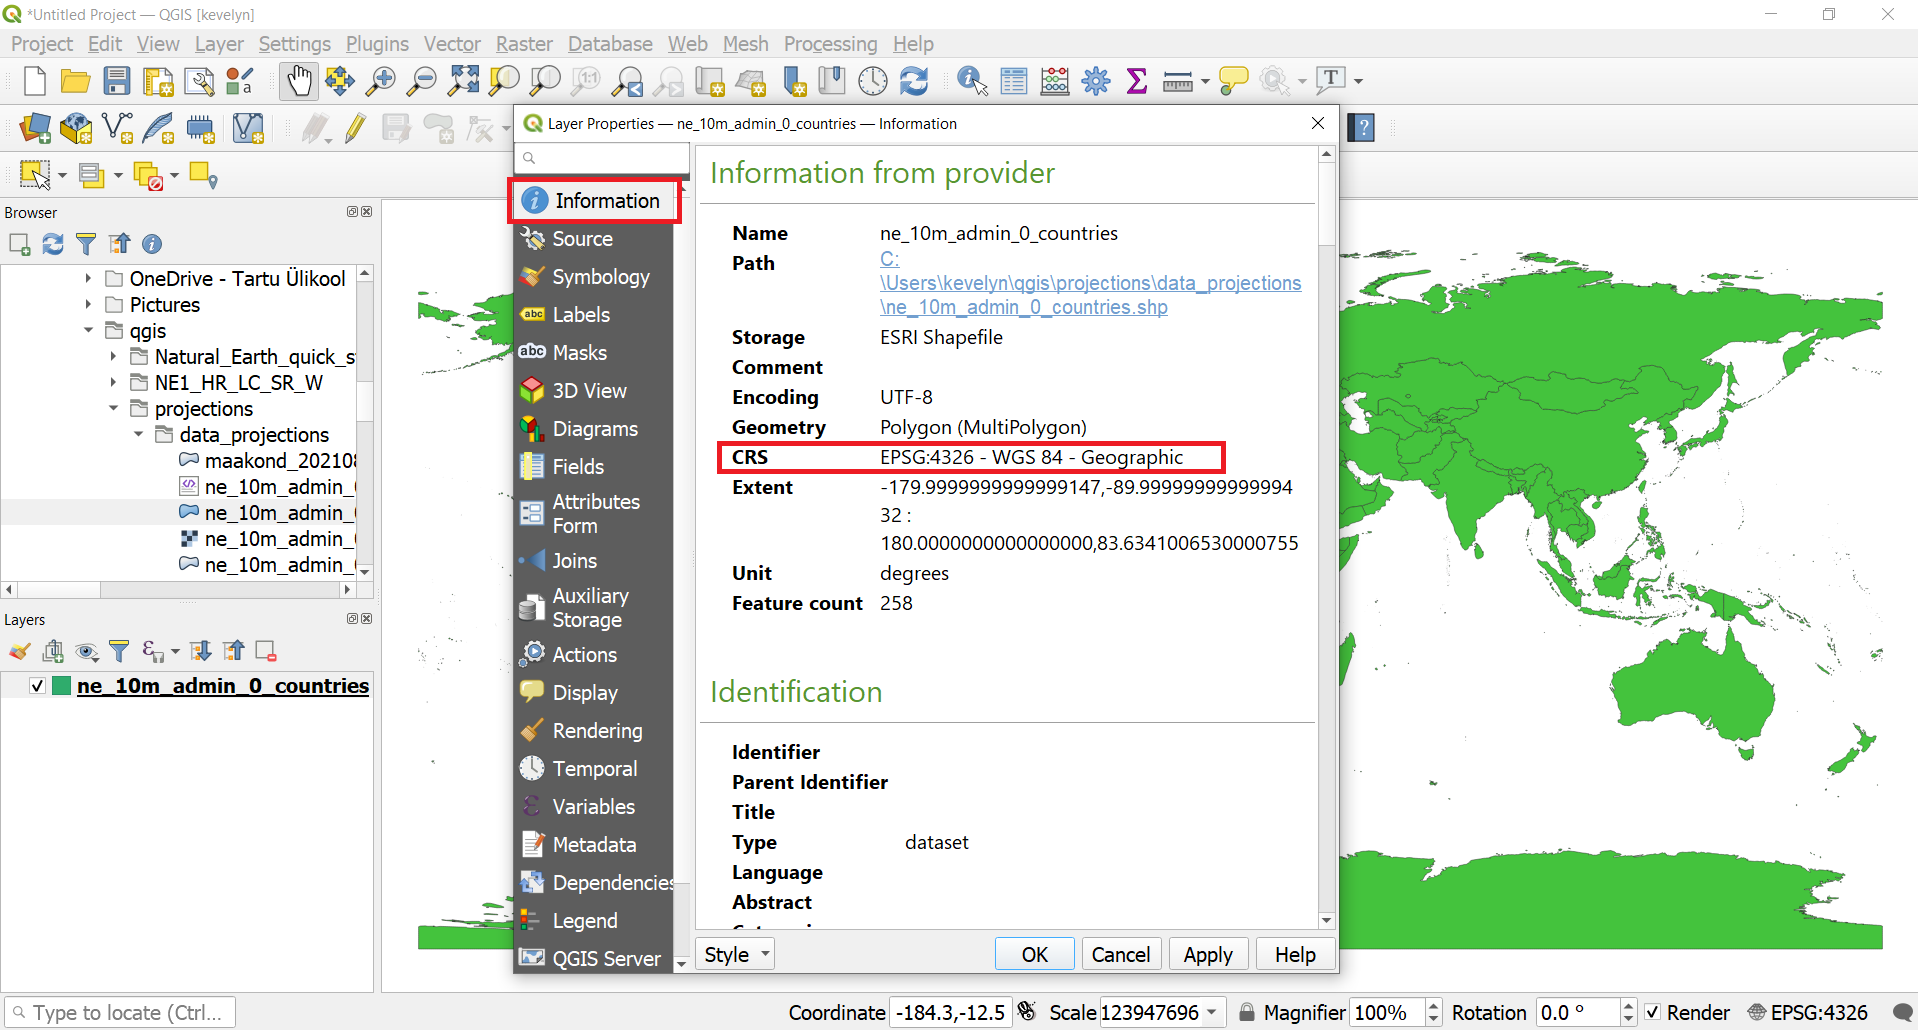
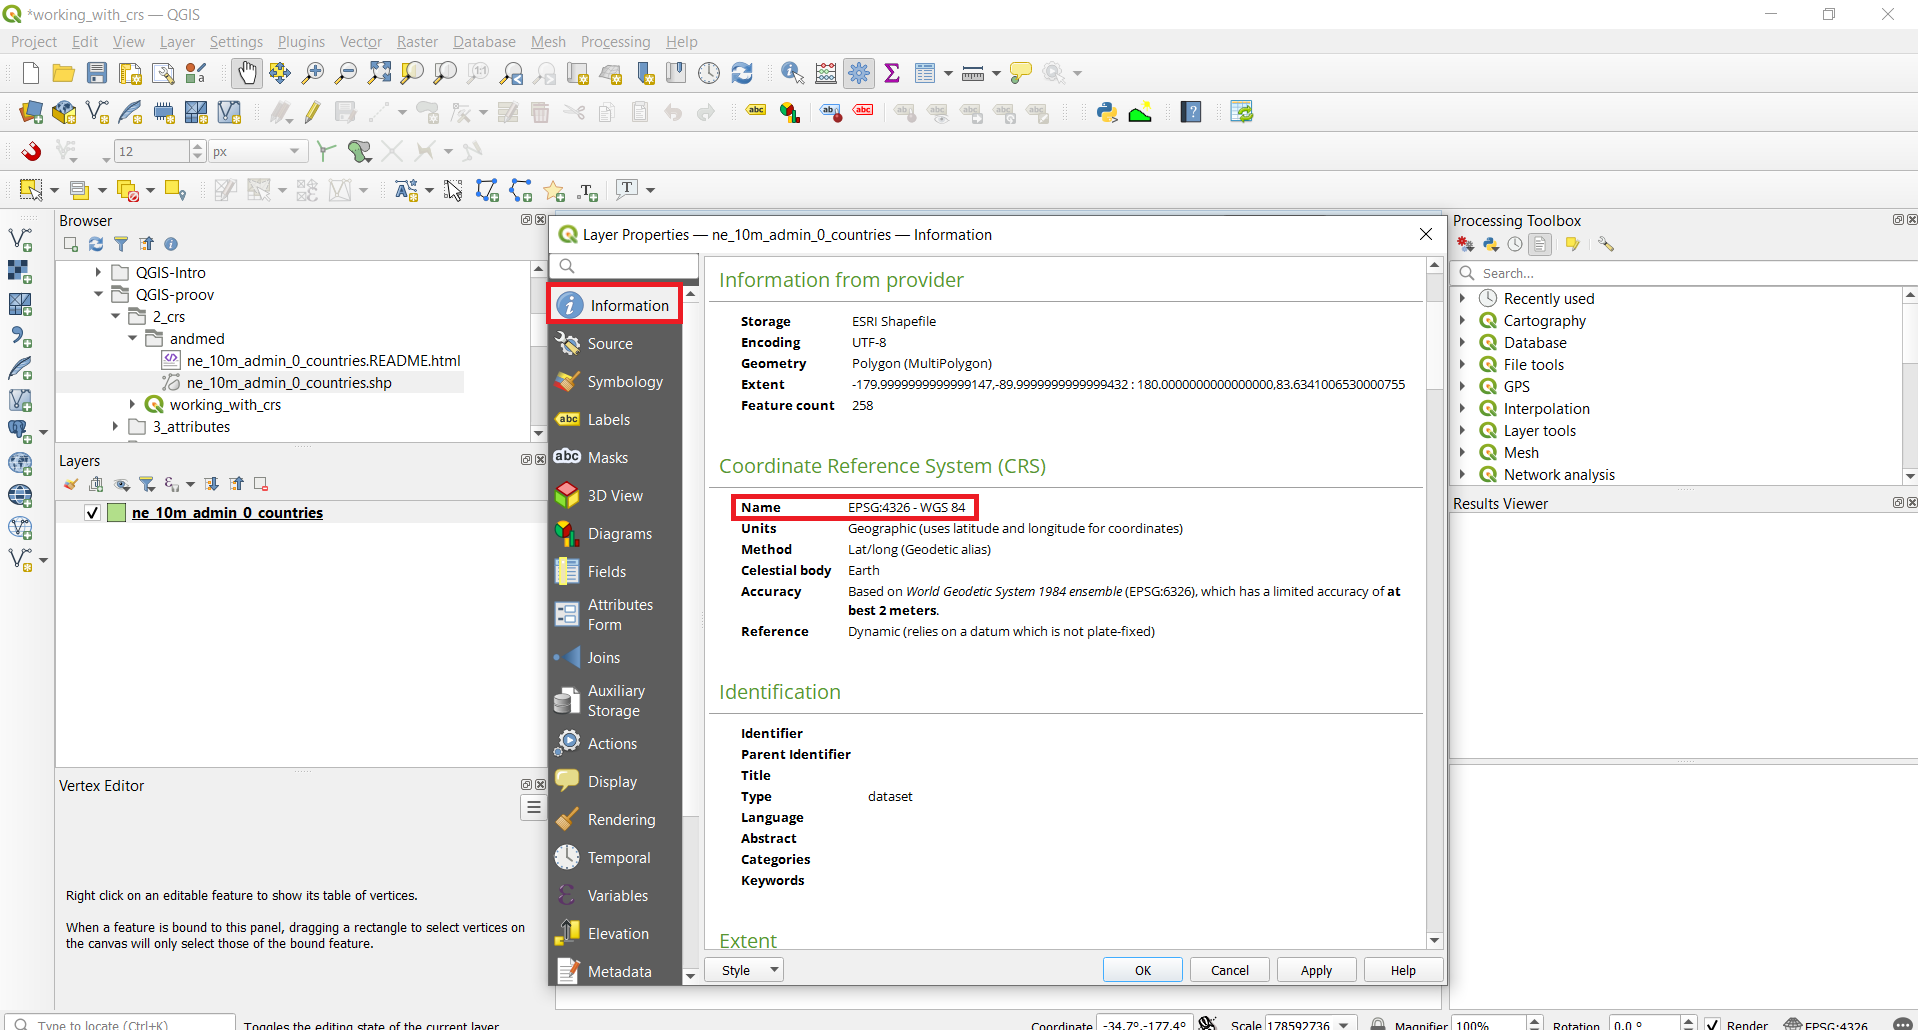
working with crs parandused

diff --git a/_posts/qgis/2022-08-10-working-with-CRS.md b/_posts/qgis/2022-08-10-working-with-CRS.md
@@ -11,7 +11,7 @@ Coordinate Reference System (CRS) often cause a lot of frustration when working 
 + Geographic Coordinate Systems (GCS)
 + Projected Coordinate Systems (PCS)
 
-It is important to recognise and make the difference between them. The projected coordinate systems always include also information about the projection. It is important to make an appropriate choice of CRS for projects. Choosing an inappropriate CRS can cause your maps to look distorted, and poorly reflect the real-world relative sizes and positions of features but it can also cause wrong spatial analysis results (wrong area or distance estimations). Usually, while working in smaller geographic areas, there will be a number of standard CRSs used within a particular country or administrative area. It’s important to research which CRSs are appropriate or standard choices for the area you are mapping, and ensure that your QGIS project follows these standards. You can read more about Coordinate Reference Systems from [<span style="color:#0564A0">QGIS Documentation</span>](https://docs.qgis.org/3.16/en/docs/gentle_gis_introduction/coordinate_reference_systems.html#coordinate-reference-systems)
+It is important to recognise and make the difference between them. The projected coordinate systems always also include information about the projection. It is important to make an appropriate choice of CRS for projects. Choosing an inappropriate CRS can cause your maps to look distorted, and poorly reflect the real-world relative sizes and positions of features but it can also cause wrong spatial analysis results (wrong area or distance estimations). Usually, while working in smaller geographic areas, there will be a number of standard CRSs used within a particular country or administrative area. It’s important to research which CRSs are appropriate or standard choices for the area you are mapping, and ensure that your QGIS project follows these standards. You can read more about Coordinate Reference Systems from [<span style="color:#0564A0">QGIS Documentation</span>](https://docs.qgis.org/3.28/en/docs/gentle_gis_introduction/coordinate_reference_systems.html#coordinate-reference-systems)
 
 In this tutorial, we will explore how CRSs work in QGIS and learn about tools available for vector and raster data layers.
 The tutorial is mainly based on Ujaval Gandhi's [QGIS Tutorials and Tips](https://www.qgistutorials.com/en/docs/introduction.html).
@@ -44,11 +44,11 @@ For convenience, you may directly download files required only for this tutorial
 ![image of add vector](../../images/3_add vector file.png)
 2. At the bottom of QGIS window, you will notice the label Coordinate. As you move your cursor over the map, it will show you the X and Y coordinates at that location. Currently it is presenting geographic coordinates because the data layer CRS is geographic, more precisely WGS84 (EPSG:4326), which you can see at the bottom-right corner. This is also the current Project CRS because QGIS assigns the empty project CRS of the first layer you add to the project.
 ![image of CRS info](../../images/3_coord and CRS info.png)
-3. To determine a layer’s projection, we can look into the metadata. Right click on <span style="font-family:Consolas; color:#AF1B03">ne_10m_admin_0_countries.shp</span> layer and select Properties. From there switch to the Information tab in the Layer Properties dialog. Under provider information you will find CRS. As you can see, there is also a lot of other information under metadata, such as extent of the layer, units etc.
+3. To determine a layer’s projection, we can look into the metadata. Right click on <span style="font-family:Consolas; color:#AF1B03">ne_10m_admin_0_countries.shp</span> layer and select Properties. From there switch to the Information tab in the Layer Properties dialog. Under coordinate reference system you will find CRS. As you can see, there is also a lot of other information under metadata, such as extent of the layer, units etc.
 ![image of CRS info](../../images/3_layer crs information.png)
 4. Lets first change the Project CRS. Click on the status bar lower right corner on EPSG:4326. Type "winkel" to the filter. This should bring up several Winkel CRS-s. Click on World_Winkel_Tripel_NGS (ESRI:54042)[^1] and then OK. Winkel-Tripel is minimal-error projection and it a standard projection for world maps made by the National Geographic Society (Wiki). In result, the map should change in your map view as the Project CRS is changed.
 ![image of change project CRS](../../images/3_change project crs.png)
-5. Please re-check the layer's CRS by doing right click on <span style="font-family:Consolas; color:#AF1B03">ne_10m_admin_0_countries.shp</span> layer and select Properties. From there switch to the Information tab in the Layer Properties dialog check the CRS information. This should be still the same as before: WGS84 (EPSG: 4326). You only changed the project CRS but the layer's CRS did not change and in the map view the map was automatically and only virtually projected to the project CRS. This is because QGIS supports On-The-Fly (OTF) CRS transformation for both raster and vector data. Which means that whenever a layer’s CRS doesn’t match the Project CRS, it will automatically be transformed to the Project CRS so it can be displayed correctly. This means that regardless of the underlying CRS of particular map layers in your project, they will always be automatically transformed into the common CRS defined for your project. Behind the scenes, QGIS transparently reprojects all layers contained within your project into the project’s CRS, so that they will all be rendered in the correct position with respect to each other.
+5. Please re-check the layer's CRS by doing right click on <span style="font-family:Consolas; color:#AF1B03">ne_10m_admin_0_countries.shp</span> layer and select Properties. From there switch to the Information tab in the Layer Properties dialog to check the CRS information. This should still be the same as before: WGS84 (EPSG: 4326). You only changed the project CRS but the layer's CRS did not change and in the map view the map was automatically and only virtually projected to the project CRS. This is because QGIS supports On-The-Fly (OTF) CRS transformation for both raster and vector data. Which means that whenever a layer’s CRS doesn’t match the Project CRS, it will automatically be transformed to the Project CRS so it can be displayed correctly. This means that regardless of the underlying CRS of particular map layers in your project, they will always be automatically transformed into the common CRS defined for your project. Behind the scenes, QGIS transparently reprojects all layers contained within your project into the project’s CRS, so that they will all be rendered in the correct position with respect to each other.
 
 #### 2.2 Change vector layer CRS
 6. Now let’s change the layer’s CRS. This operation is called Re-Projection. It is possible to re-project the whole layer but rather than re-projecting the entire layer, we can also select a subset of features and re-project them to a new layer. Use the Select Features by Area or Single Click tool ![icon of select](../../images/icon_select.png) and click on Estonia to select it.
@@ -72,7 +72,7 @@ You will see the Project CRS is updated to EPSG 3301 (Estonian Coordinate System
 ![image of layer properties](../../images/3_raster lakes.png)
 15. Under the Properties switch to Symbology tab and there click on Simple Fill. Change Fill Style to No Brush and change the Stroke color into red and Stroke width to 0.3, for example, and click OK.
 ![image of change symbology](../../images/3_symbology.png)
-16. To change the raster layer CRS into WGS84, we need to use different tool than for vector layer. Type "reproject" into Processing Toolbox search which will bring up Warp (reproject) under GDAL[^2]. Make layer <span style="font-family:Consolas; color:#AF1B03">estonia</span> as Input; you may leave Source input empty as it is read automatically from the layer's metadata; choose WGS84 (EPSG 4326) as Target CRS; leave other parameters as default and scroll down to Advanced Parameters where you can change whether you want your new reprojected raster layer to be Saved to temporary file or Save to file. You may leave this temporary which means that after you close the QGIS project then the file will be deleted. This is often useful option when you have a lot of intermediate results that you know, you won't need later. Click Run to start reprojecting. New file <span style="font-family:Consolas; color:#AF1B03">Reprojected</span> should appear to the Layer panel. The new layer should align with the original file because of On-The-Fly CRS transformation but it's layer CRS should now be WGS84. Check the layer CRS under it's propeties to make sure it is so.
+16. To change the raster layer CRS into WGS84, we need to use different tool than for vector layer. Type "reproject" into Processing Toolbox search which will bring up Warp (reproject) under GDAL[^2]. Make layer <span style="font-family:Consolas; color:#AF1B03">EST_dtm100</span> as Input; you may leave Source input empty as it is read automatically from the layer's metadata; choose WGS84 (EPSG 4326) as Target CRS; leave other parameters as default and scroll down to Advanced Parameters where you can change whether you want your new reprojected raster layer to be Saved to temporary file or Save to file. You may leave this temporary which means that after you close the QGIS project then the file will be deleted. This is often useful option when you have a lot of intermediate results that you know, you won't need later. Click Run to start reprojecting. New file <span style="font-family:Consolas; color:#AF1B03">Reprojected</span> should appear to the Layer panel. The new layer should align with the original file because of On-The-Fly CRS transformation but it's layer CRS should now be WGS84. Check the layer CRS under it's propeties to make sure it is so.
 ![image of warp](../../images/3_warp.png)
 
 

diff --git a/_posts/qgis/2022-08-11-making-a-map.md b/_posts/qgis/2022-08-11-making-a-map.md
@@ -127,7 +127,7 @@ Download the [<span style="color:#0564A0">Natural Earth Quickstart Kit</span>](h
 ![image](../../images/2_switch layout crs.png)
 44. You might need to adjust the scale and pan the map into more appropriate position.
 ![image](../../images/2_adjusting scale.png)
-45. You might notice that highway labels are too overpowering on the map. We can switch them off. Go back to the map view and from the Layer panel find layer <span style="color:#0564A0">roads copy copy copy</span>. Double-click on it to open the Properies. Switch to Labels tab and switch off the label rule.
+45. You might notice that highway labels are too overpowering on the map. We can switch them off. Go back to the map view and from the Layer panel find layer <span style="color:#0564A0">ne_10m_roads</span>. Double-click on it to open the Properies. Switch to Labels tab and switch off the label rule.
 ![image](../../images/2_switch off labels.png)
 46. Go back to the Layout view and refresh your map. Your map is ready for export.
 ![image](../../images/NZ map raster_small.png)
